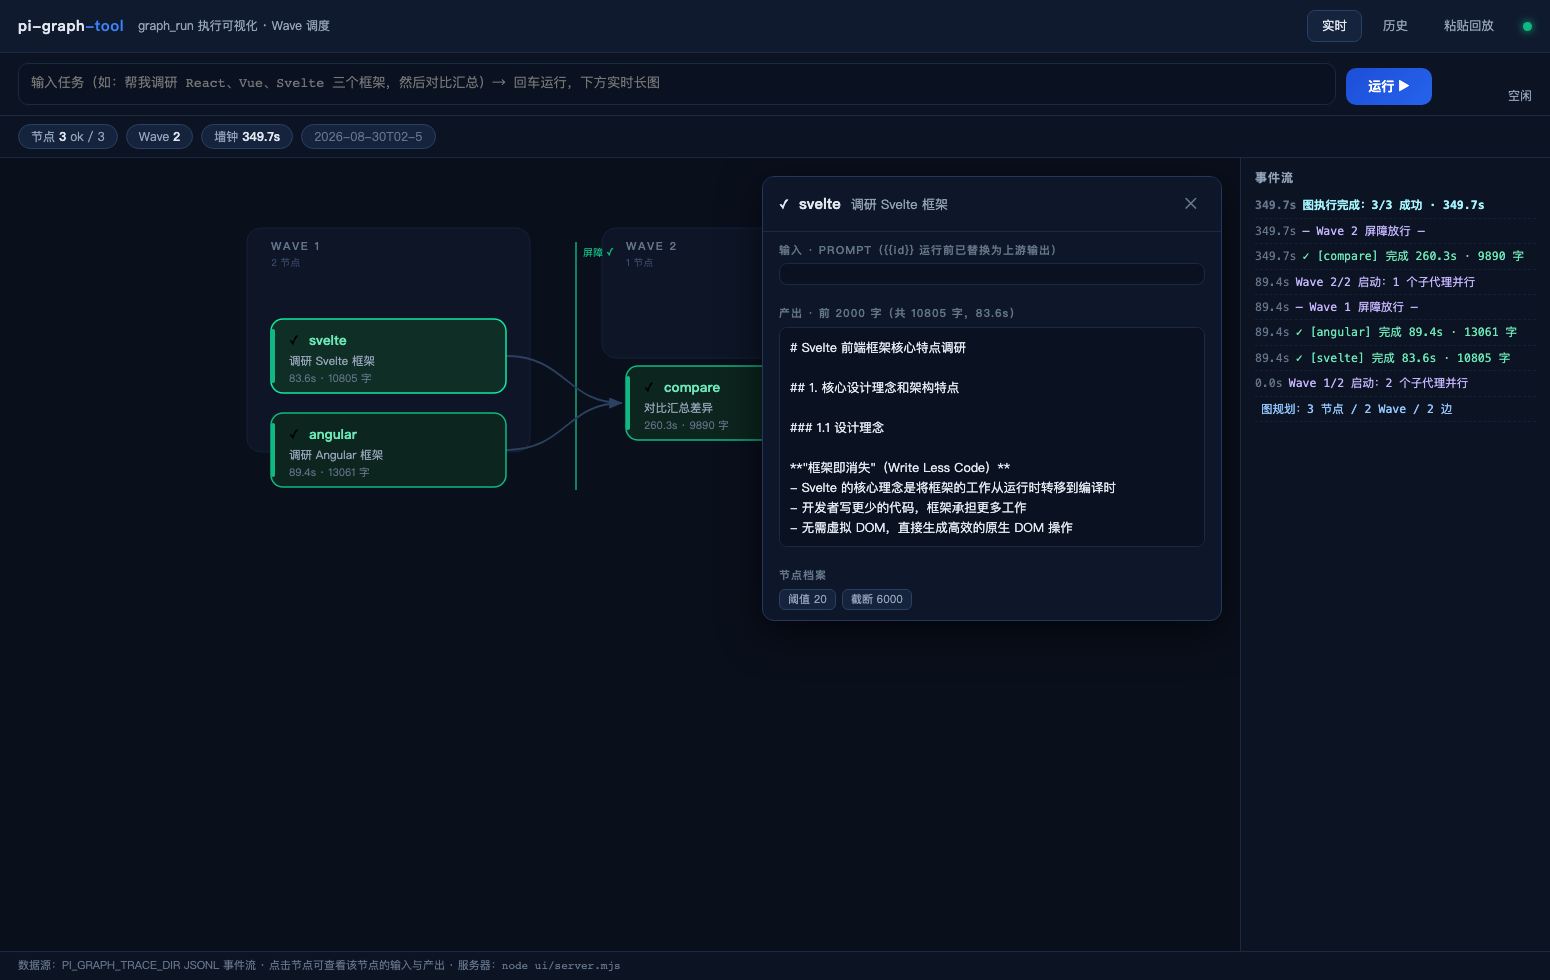
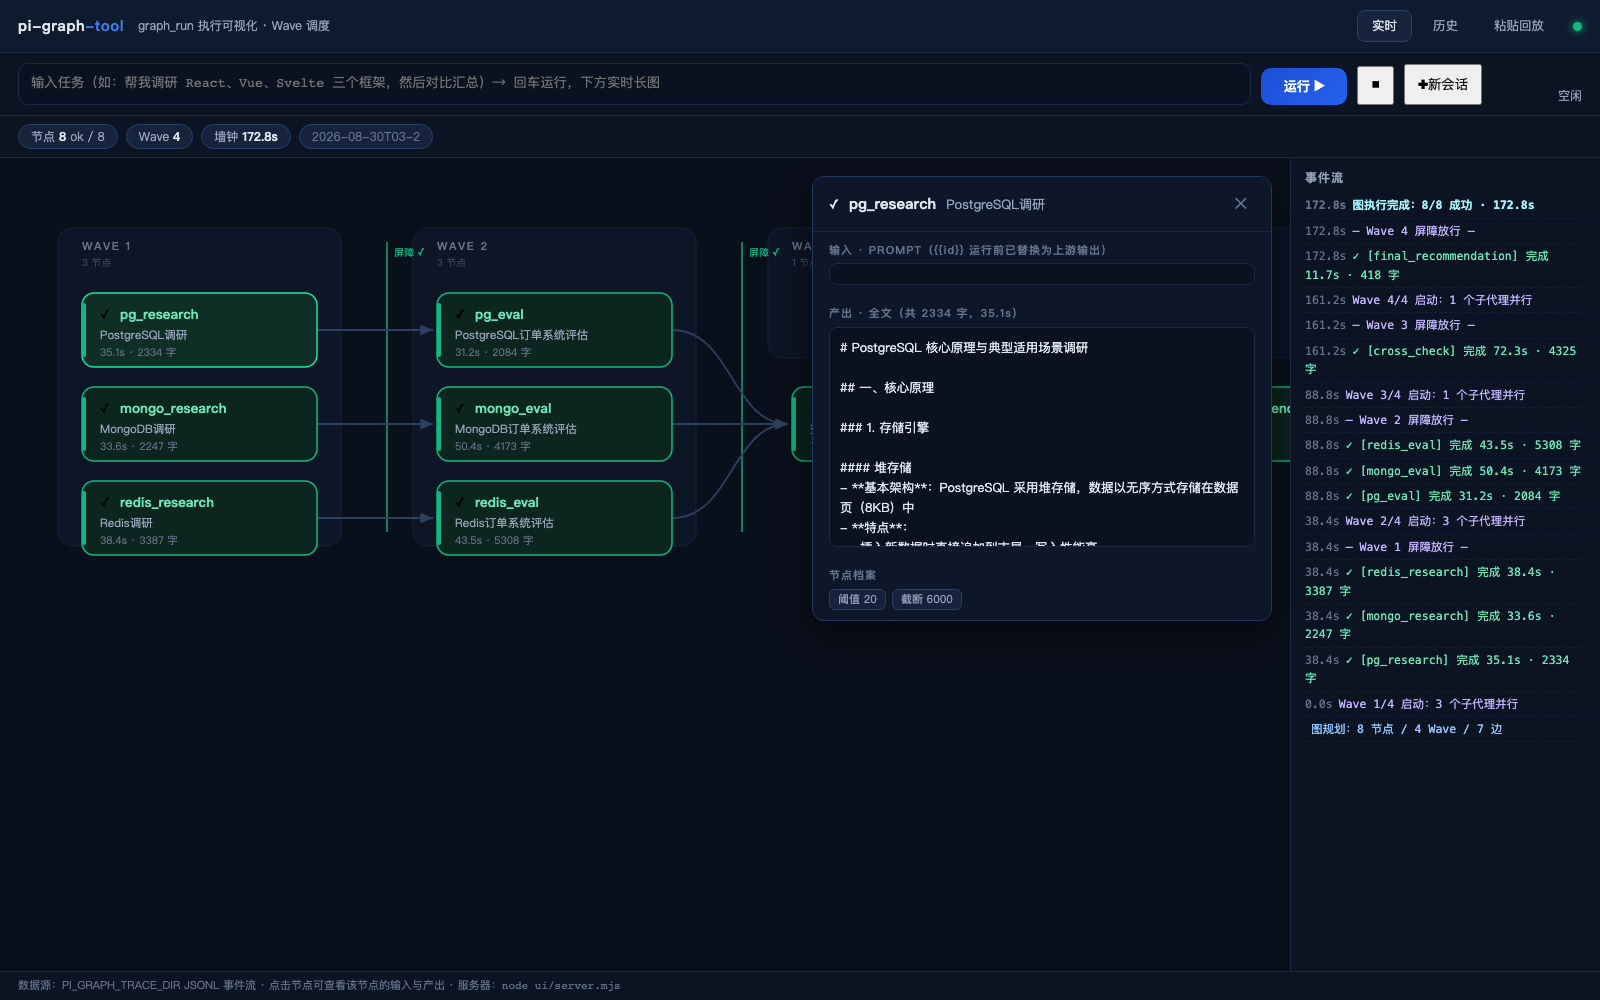
feat: v0.3.0 — 实时流式可视化 + 持久对话桥（live-first UI）
- index.js: session.subscribe 节点级事件流——node_delta 实时转发文本增量
  （120ms 合并）与工具调用；产出全文入 trace，不再截断
- ui/server.mjs: 持久 pi rpc 桥（多轮对话/abort/新会话）；/run 受理即回，
  完成以 agent_settled 事件为准（修复把'已受理'当'已完成'的时序 bug）；
  主会话流式兜底（GLM 工具调用后偶发空收尾）；GET /api/session 轮询
- ui/index.html: 运行卡片实时'已生成 N 字·最近工具'；节点详情实时增量流
  → 完成切换全文；主回答面板实时流；⏹ 中止 / ✚新会话
- ui/PROMPTS.md: 六类复杂测试提示词（深流水线/菱形依赖/工具节点/决策树/
  多跳路由/失败语义）
- E2E 实测：4 阶段选型提示词生成 8 节点 4 Wave 深流水线，30s 内 38 条流式
  增量，225s 完成，多轮对话追问正确；离线套件 8/8

diff --git a/ui/index.html b/ui/index.html
@@ -123,6 +123,8 @@
 <div id="inputBar">
 	<textarea id="msg" placeholder="输入任务（如：帮我调研 React、Vue、Svelte 三个框架，然后对比汇总）→ 回车运行，下方实时长图"></textarea>
 	<button id="go">运行 ▶</button>
+	<button id="stop" title="中止当前任务" style="padding:9px 12px">⏹</button>
+	<button id="fresh" title="重开新会话（清空对话）" style="padding:9px 12px">✚新会话</button>
 	<div id="runState">空闲</div>
 </div>
 <details id="answerWrap"><summary>最终回答（任务完成后展开）</summary><div id="answerBody"></div></details>
@@ -201,10 +203,29 @@ function applyEvent(ev) {
 			logLine("e-done", `图执行完成：${ev.ok}/${ev.total} 成功 · ${ev.waveSeconds}s${ev.violations ? ` · 违约重试 ${ev.violations}` : ""}${ev.skipped ? ` · 跳过 ${ev.skipped}` : ""}`, rel);
 			break;
 		}
+		case "node_delta": {
+			const n = stat(ev.id); if (!n) break;
+			if (ev.kind === "tool") (n.tools = n.tools || []).push(ev.tool);
+			else if (ev.kind === "text") n.stream = (n.stream || "") + ev.delta;
+			liveTick(ev.id);
+			return;
+		}
 		case "new_run": return;
 	}
 	renderStats();
 	if (S.plan) { $("#empty").style.display = "none"; render(); }
+	if (curDetail && (ev.t === "node_ok" || ev.t === "violation" || ev.t === "skip" || ev.t === "node_failed") && stat(curDetail)) {
+		const pn = S.plan?.nodes.find((x) => x.id === curDetail);
+		if (pn) showDetail(pn);
+	}
+}
+let curDetail = null;
+function liveTick(id) {
+	const n = stat(id); if (!n) return;
+	if (curDetail === id) {
+		const b = document.getElementById("liveBody");
+		if (b) { b.textContent = n.stream || "（等待首个增量…）"; b.scrollTop = b.scrollHeight; }
+	}
 }
 function renderStats() {
 	const parts = [];
@@ -285,7 +306,10 @@ function render() {
 		else meta = "待执行";
 		const m = el("text", { x: pos.x + 18, y: pos.y + 63, class: "n-meta" }, meta);
 		if (fill) m.setAttribute("fill", fill);
-		if ((st.status === "running" || st.status === "retry") && st.startTs) { m.dataset.timer = n.id; m.dataset.base = meta; }
+		if ((st.status === "running" || st.status === "retry")) {
+			if (st.startTs) { m.dataset.timer = n.id; m.dataset.base = meta; }
+			m.dataset.live = n.id; m.dataset.base = m.dataset.base || meta;
+		}
 		g.append(m);
 		g.addEventListener("click", () => showDetail(n));
 		svg.append(g);
@@ -293,9 +317,13 @@ function render() {
 	$("#canvasWrap").append(svg);
 }
 setInterval(() => {
-	for (const t of document.querySelectorAll("[data-timer]")) {
-		const st = stat(t.dataset.timer);
-		if (st && st.startTs) t.textContent = `${t.dataset.base} ${((Date.now() - st.startTs) / 1000).toFixed(0)}s`;
+	for (const t of document.querySelectorAll("[data-live]")) {
+		const st = stat(t.dataset.live); if (!st) continue;
+		const sec = st.startTs ? ` ${((Date.now() - st.startTs) / 1000).toFixed(0)}s` : "";
+		const gen = st.stream ? ` · 已生成 ${st.stream.length} 字` : "";
+		const tool = st.tools?.length ? ` · ${st.tools[st.tools.length - 1]}` : "";
+		t.textContent = `${t.dataset.base}${sec}${gen}${tool}`;
+		t.setAttribute("fill", st.status === "retry" ? "#fcd34d" : "#93c5fd");
 	}
 }, 250);
 
@@ -310,9 +338,10 @@ function showDetail(n) {
 	if (prof.workdir) chips.push(`目录 ${prof.workdir}`);
 	const dep = (prof.dependsOn || []).join("、");
 	$("#detail").innerHTML = `
-		<div class="hd"><span>${ICON[st.status] || "○"}</span><b>${n.id}</b><span style="color:var(--dim)">${n.title}</span><span class="x" onclick="document.getElementById('detail').style.display='none'">✕</span></div>
+		<div class="hd"><span>${ICON[st.status] || "○"}</span><b>${n.id}</b><span style="color:var(--dim)">${n.title}</span><span class="x" onclick="window.closeDetail()">✕</span></div>
 		<div class="sec"><h4>输入 · PROMPT（{{id}} 运行前已替换为上游输出）</h4><div class="body">${esc((st.prompt || n.prompt || "").trim())}</div></div>
-		${st.text ? `<div class="sec"><h4>产出 · 前 2000 字（共 ${st.chars} 字，${st.seconds}s${st.retried ? " · 重试挽回" : ""}）</h4><div class="body">${esc(st.text)}</div></div>` : ""}
+		${st.status === "running" || st.status === "retry" ? `<div class="sec"><h4>过程 · 实时流${st.tools?.length ? `（工具：${st.tools.join(" → ")}）` : ""}</h4><div class="body" id="liveBody">${esc(st.stream || "（等待首个增量…）")}</div></div>` : ""}
+		${st.text ? `<div class="sec"><h4>产出 · 全文（共 ${st.chars} 字，${st.seconds}s${st.retried ? " · 重试挽回" : ""}）</h4><div class="body">${esc(st.text)}</div></div>` : ""}
 		${st.status === "skipped" || st.status === "failed" ? `<div class="sec"><h4>状态说明</h4><div class="body">${esc((st.reason || st.violReason || ""))}</div></div>` : ""}
 		<div class="sec"><h4>节点档案${dep ? ` · 依赖：${dep}` : ""}</h4><div class="kv">${chips.length ? chips.map((c) => `<span>${c}</span>`).join("") : '<span>默认（纯 LLM · 无工具）</span>'}</div></div>`;
 	$("#detail").style.display = "block";
@@ -323,21 +352,27 @@ const esc = (s) => String(s ?? "").replace(/&/g, "&amp;").replace(/</g, "&lt;").
 $("#msg").addEventListener("keydown", (e) => {
 	if (e.key === "Enter" && !e.shiftKey) { e.preventDefault(); $("#go").click(); }
 });
+$("#stop").onclick = () => { fetch("/abort", { method: "POST" }).catch(() => {}); $("#runState").textContent = "已发中止"; };
+$("#fresh").onclick = async () => { await fetch("/new", { method: "POST" }).catch(() => {}); $("#answerWrap").style.display = "none"; $("#runState").textContent = "新会话"; reset(""); connectLive(); };
+window.closeDetail = () => { $("#detail").style.display = "none"; curDetail = null; };
 $("#go").onclick = async () => {
 	const message = $("#msg").value.trim();
 	if (!message) return;
 	$("#go").disabled = true; $("#runState").textContent = "运行中…";
-	$("#answerWrap").style.display = "none";
+	$("#answerWrap").style.display = "block"; $("#answerWrap").open = true;
+	$("#answerBody").textContent = "…";
+	const poll = setInterval(async () => {
+		try {
+			const s2 = await (await fetch("/api/session")).json();
+			if (s2.stream) { $("#answerBody").textContent = s2.stream; $("#answerBody").scrollTop = 1e6; }
+		} catch {}
+	}, 900);
+	setTimeout(() => clearInterval(poll), 15 * 60_000);
 	try {
 		const r = await fetch("/run", { method: "POST", headers: { "Content-Type": "application/json" }, body: JSON.stringify({ message }) });
 		const d = await r.json();
-		if (d.error) { $("#runState").textContent = "失败"; alert(d.error); return; }
-		const text = (d.stdout || "").trim();
-		$("#answerBody").textContent = text || "（无输出）";
-		$("#answerWrap").style.display = "block"; $("#answerWrap").open = true;
-		$("#runState").textContent = "完成";
-	} catch (e) { $("#runState").textContent = "错误"; alert("请求失败：" + e.message); }
-	$("#go").disabled = false;
+		if (d.error) { $("#runState").textContent = "失败"; alert(d.error); $("#go").disabled = false; return; }
+	} catch (e) { $("#runState").textContent = "错误"; alert("请求失败：" + e.message); $("#go").disabled = false; }
 };
 
 // ============ 视图切换 / 实时 / 历史 / 粘贴 ============

diff --git a/index.js b/index.js
@@ -37,7 +37,8 @@
  *     （plan / wave_start / node_ok / violation / retry / skip / done），
  *     `node ui/server.mjs` 读取这些事件实时渲染 Wave 调度动画
  *   - 默认关闭、全程 try/catch 包裹：追踪永不影响图执行本身
- *   - 注意：trace 含各节点 prompt 与产出文本（产出截断至 2000 字），目录请勿外传
+ *   - v0.3.0：node_delta 事件实时流式节点过程（文本增量 120ms 合并 + 工具调用），
+ *     产出全文不再截断。注意：trace 含 prompt 与产出全文，目录请勿外传
  *
  * 安装位置：<项目>/.pi/extensions/pi-graph-tool/index.js（项目级，自动加载）
  *
@@ -217,7 +218,7 @@ function renderPrompt(node, byId) {
 //   声明 tools 白名单：只启用列出的工具（如 read/bash），graph_run 被结构性排除——
 //     双保险：白名单不含它 + excludeTools 显式禁用，递归防护不弱于全禁方案
 //   声明 workdir：工具节点在独立目录工作，避免并行 write/bash 互相踩踏
-async function runSubNode(node, prompt, agentDir, signal, modelOverride) {
+async function runSubNode(node, prompt, agentDir, signal, modelOverride, onEvent) {
 	const t0 = Date.now();
 	const sessionOpts = {
 		agentDir,
@@ -236,6 +237,23 @@ async function runSubNode(node, prompt, agentDir, signal, modelOverride) {
 	const { session } = await createAgentSession(sessionOpts);
 	const agent = session.agent;
 
+	// v0.3.0 节点级事件流：订阅子代理会话事件，转发文本增量（120ms 合并）与工具调用，
+	// 供 ui/ 实时展示"过程"（node_delta）。onEvent 缺省时零开销。
+	let buf = "", bufTimer = null;
+	const unsubscribe = onEvent ? session.subscribe((ev) => {
+		try {
+			if (ev.type === "message_update" && ev.assistantMessageEvent?.type === "text_delta") {
+				buf += ev.assistantMessageEvent.delta ?? "";
+				if (!bufTimer) bufTimer = setTimeout(() => {
+					bufTimer = null;
+					if (buf) { onEvent({ kind: "text", delta: buf }); buf = ""; }
+				}, 120);
+			} else if (ev.type === "tool_execution_start") {
+				onEvent({ kind: "tool", tool: ev.toolName });
+			}
+		} catch {}
+	}) : null;
+
 	// 中止传播：主工具调用被 abort 时，杀掉子代理
 	const onAbort = () => { try { agent.abort(); } catch {} };
 	signal?.addEventListener("abort", onAbort, { once: true });
@@ -248,6 +266,8 @@ async function runSubNode(node, prompt, agentDir, signal, modelOverride) {
 		await agent.prompt(prompt);
 	} finally {
 		clearTimeout(timer);
+		if (bufTimer) { clearTimeout(bufTimer); if (buf && onEvent) { try { onEvent({ kind: "text", delta: buf }); } catch {} } }
+		try { unsubscribe?.(); } catch {}
 		signal?.removeEventListener("abort", onAbort);
 	}
 	return { title: node.title, text: lastText(session.messages), seconds: (Date.now() - t0) / 1000, timedOut };
@@ -362,7 +382,7 @@ export default function (pi) {
 					(batch.some((n) => n.tools?.length) ? `（含工具节点：${batch.filter((n) => n.tools?.length).map((n) => `${n.id}[${n.tools.join("/")}]`).join("、")}）` : ""));
 				trace({ t: "wave_start", wave: w + 1, total: waves.length, nodes: batch.map((n) => n.id), at: Date.now() - t0 });
 				const settled = await Promise.allSettled(
-					batch.map((n) => runSubNode(n, renderPrompt(n, byId), agentDir, signal, modelOverride)),
+					batch.map((n) => runSubNode(n, renderPrompt(n, byId), agentDir, signal, modelOverride, (e) => trace({ t: "node_delta", id: n.id, ...e }))),
 				);
 
 				// 契约校验：输出超过（节点阈值 ?? 全局阈值）才算首过履约；否则单独重试（不重跑整波）
@@ -373,7 +393,7 @@ export default function (pi) {
 					if (r.status === "fulfilled" && r.value.text.length > minChars) {
 						n.status = "ok";
 						n.result = r.value;
-						trace({ t: "node_ok", id: n.id, seconds: Number(r.value.seconds.toFixed(1)), chars: r.value.text.length, text: r.value.text.slice(0, 2000) });
+						trace({ t: "node_ok", id: n.id, seconds: Number(r.value.seconds.toFixed(1)), chars: r.value.text.length, text: r.value.text });
 					} else {
 						const reason = r.status === "rejected"
 							? String(r.reason?.message ?? r.reason).slice(0, 100)
@@ -398,7 +418,7 @@ export default function (pi) {
 					try {
 						const nudge = firstText.trim() ? "" : "\n\n注意：请直接以文本形式输出你的回答。";
 						trace({ t: "retry_start", id: n.id });
-						const retry = await runSubNode(n, renderPrompt(n, byId) + nudge, agentDir, signal, modelOverride);
+						const retry = await runSubNode(n, renderPrompt(n, byId) + nudge, agentDir, signal, modelOverride, (e) => trace({ t: "node_delta", id: n.id, retry: true, ...e }));
 						const candidates = [retry.text, firstText].filter((t) => t && t.trim().length > 0);
 						if (candidates.length > 0) {
 							const best = candidates.reduce((a, b) => (b.length > a.length ? b : a));
@@ -407,7 +427,7 @@ export default function (pi) {
 							n.status = "ok";
 							n.result = retry;
 							log(`✅ [${n.title}] 重试挽回成功${best === firstText ? "（沿用首答）" : ""}`);
-							trace({ t: "node_ok", id: n.id, seconds: Number(retry.seconds.toFixed(1)), chars: retry.text.length, text: retry.text.slice(0, 2000), retried: true, salvaged: best === firstText ? "first" : "retry" });
+							trace({ t: "node_ok", id: n.id, seconds: Number(retry.seconds.toFixed(1)), chars: retry.text.length, text: retry.text, retried: true, salvaged: best === firstText ? "first" : "retry" });
 						} else {
 							n.status = "failed";
 							log(`❌ [${n.title}] 两次尝试均无有效输出，放弃该节点（其后代将被跳过，不影响其他分支）`);

diff --git a/ui/PROMPTS.md b/ui/PROMPTS.md
@@ -1,0 +1,53 @@
+# 复杂任务提示词集（用于测试图调度效果）
+
+> 用途：让主 agent 调用 `graph_run` 时生成**多 Wave、多跳依赖、带工具节点**的深图，检验拓扑分层、数据路由、屏障与失败语义。
+> 写法要点：**显式声明阶段**（"第 N 阶段……"），并注明"阶段间严格依赖、同阶段内互不依赖"——这两句是让模型生成深 DAG 而非单层并行的关键。
+> 注：实际生成的节点数/波数取决于模型的拆解判断（这本身就是编排智能的观测点）；GLM-4.5 实测 P1 生成 8 节点 / 4 Wave。
+
+## P1 深流水线：四阶段技术选型（实测 8 节点 / 4 Wave）
+
+```
+请分阶段完成一项技术选型分析：第一阶段，并行调研 PostgreSQL、MongoDB、Redis 三种数据库的核心原理与典型适用场景；第二阶段，基于第一阶段结论，分别评估三者用于电商订单系统的优势与短板；第三阶段，交叉核对第二阶段评估的关键假设，指出矛盾或存疑之处；第四阶段，汇总为不超过400字的选型建议。阶段间严格依赖，同阶段内子任务互不依赖。
+```
+
+**看点**：4 个 Wave 逐级推进；第二阶段的每个评估节点用 `{{调研id}}` 消费第一阶段产出（两跳数据路由）；屏障放行动画。
+
+## P2 翻译-审校-终审流水线（三波纯文本加工）
+
+```
+现有三个前端框架 React、Vue、Svelte 的定位需要三阶段处理：第一阶段，为每个框架并行撰写一段80字中文定位摘要；第二阶段，把三段摘要各自翻译成英文（依赖第一阶段对应摘要）；第三阶段，对三段英文做术语一致性交叉审校，输出一份统一术语表的终稿（依赖第二阶段全部）。阶段间严格依赖，同阶段内互不依赖。
+```
+
+**看点**：菱形依赖（三个独立分支 + 汇聚审校）；第二阶段的"依赖第一阶段**对应**摘要"会生成一一对应的边而非全连接（观测 LLM 的依赖精度）。
+
+## P3 带工具节点：文件调研流水线
+
+```
+请帮我分析本项目目录下的文档：第一阶段，并行读取并归纳根目录下每一类文件的内容主题（需要读文件的节点可以用 read 工具，各自在独立子目录工作）；第二阶段，交叉对比各主题，找出重复覆盖与空白；第三阶段，输出一张主题地图。阶段间严格依赖，同阶段内互不依赖。
+```
+
+**看点**：带 `tools:["read"]` 的工具节点（卡片上有 ⚙ 标记）；workdir 隔离；对照纯 LLM 节点的耗时差异。
+
+## P4 决策树评估：方案对比四波
+
+```
+针对"自建机房 vs 公有云 vs 混合架构"三个方案做决策分析：第一阶段，并行分析三个方案各自的可行性；第二阶段，为每个方案并行列出风险清单（依赖第一阶段对应方案的分析）；第三阶段，综合三个方案的风险做交叉评分（依赖第二阶段全部）；第四阶段，输出推荐结论与理由。阶段间严格依赖，同阶段内互不依赖。
+```
+
+**看点**：3×3 的阶段矩阵 + 汇聚评分；观察模型是否正确建立"对应方案"的窄依赖而非全连接依赖。
+
+## P5 多跳调研：候选→深挖→冲突检测
+
+```
+请完成一项开源组件选型：第一阶段，并行确定 2025 年最活跃的三个 Agent 编排框架（每个候选一个节点，列出名称与活跃度依据）；第二阶段，对每个候选调研其依赖结构与许可证（依赖第一阶段对应候选）；第三阶段，检测三个候选之间的许可兼容性冲突（依赖第二阶段全部）；第四阶段，输出合规选型建议。阶段间严格依赖，同阶段内互不依赖。
+```
+
+**看点**：真正的"两跳路由"——候选名称要经第一、二阶段两次传递才到达第四阶段；适合验证 `{{id}}` 数据路由的保真度。
+
+## P6 失败语义观测（可选，故意触发违约）
+
+```
+请组织一个流水线：第一阶段，三个节点各自只输出一个数字（7、3、9），不要输出任何其他文字；第二阶段，把三个数字相加，只输出结果数字。阶段间严格依赖。
+```
+
+**看点**：超短输出触发契约违约 → 挽回重试（琥珀色脉冲 + "重试挽回"徽标）→ 接受非空结果；若两次皆空则失败并级联跳过第二阶段（灰化 + 原因）。适合演示失败语义（注意：GLM 系模型可能把超短回答放进思考通道导致失败——这本身是厂商行为差异的活教材）。
